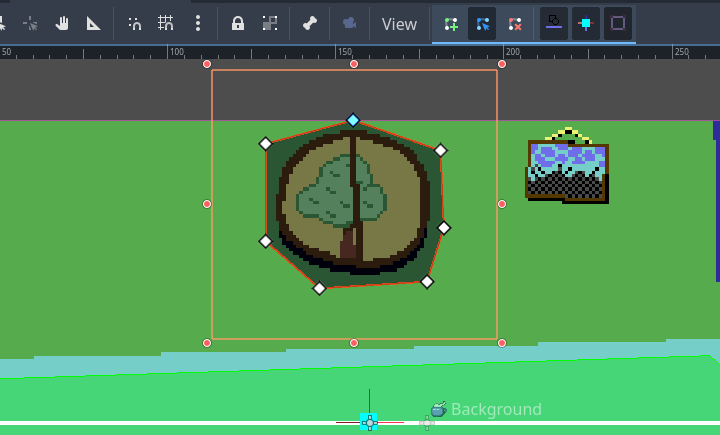
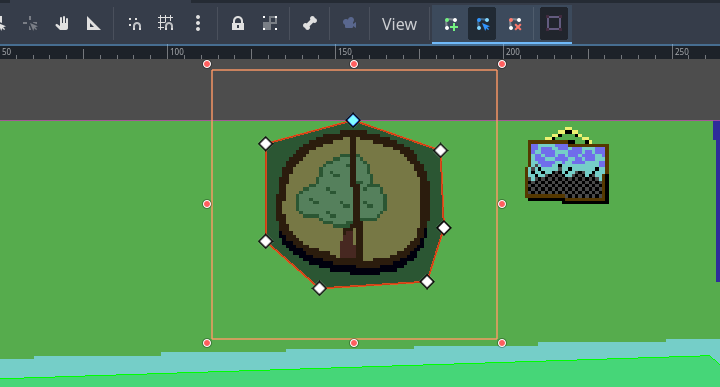
refs #232: updating documentation to reflect the new gizmos

diff --git a/docs/src/getting-started/creating-a-game-stub/create-the-first-room.md b/docs/src/getting-started/creating-a-game-stub/create-the-first-room.md
@@ -127,12 +127,12 @@ In the popup window, just name your new hotspot "_Window_" (or whatever you find
 
 ![A new hotspot in the scene tree](../../assets/images/getting-started/game_stub-room-11-hs_scene_tree.png "Select the right tool in the toolbar to set the hotspot properties")
 
-When you select the new hotspot in the scene tree (_21_), a bunch of gizmos are shown in the scene preview. We are going to interactively edit three important properties of the hotspot (the _interaction polygon_, the _baseline_ and the _walk-to point_) by using the dedicated buttons in the toolbar (_23_).
+When you select the new hotspot in the scene tree (_21_), a bunch of gizmos are shown in the scene preview (_22_). We are going to interactively edit two important properties of the hotspot (the _baseline_ and the _walk-to point_) by moving the gizmos on the screen. In addition, the dedicated button in the toolbar (_23_) will allow us to edit the hotspot's _interaction polygon_.
 
 !!! info
     _Walk-to point_, _Baseline_ and _Interaction Polygon_ properties are all common to clickable objects like Hotspots, Props and Characters.
 
-First of all, click the _Interaction Polygon_ button to show the handles of the standard square polygon for the hotspot. This is basically the same as the walkable area polygon but instead of limiting the character movements, this polygon will just react when the cursor hovers it.  
+First of all, click the _Interaction Polygon_ button to show the handles of the standard square polygon for the hotspot. Basically, that's the same as the walkable area polygon but instead of limiting the character movements, this polygon will just react when the cursor hovers over it.  
 Let's draw a shape around the window on the wall:
 
 ![New hotspot's clickable area](../../assets/images/getting-started/game_stub-room-12-hs_draw_polygon.png "Draw the hotspot shape with a polygon")
@@ -140,7 +140,7 @@ Let's draw a shape around the window on the wall:
 No need to be too precise or polished, rough edges won't be perceivable while playing your game. You just need to avoid, if possible, overlapping with other hotspots (see "_Baseline_" below, to understand how polygon overlapping works).
 
 Another important property of the hotspot is the "_Walk to point", which is the coordinates that the character will reach when you click over the hotspot.  
-You can set these coordinates interactively by clicking on the "_Walk-to point_" button in the toolbar. A squared marker will appear in the center of the screen. You can drag the marker wherever you want in the room.
+You can set these coordinates interactively by clicking and dragging the "_Walk To point_" gizmo wherever you want in the room. You will see that the property with the same name in the inspector will update to reflect the coordinates.
 
 For our example room, we'll set the following coordinates for the `Window` hotspot:
 
@@ -156,10 +156,14 @@ The last property that you want to set is the _Baseline_. The baseline is simply
 
     That's not the case at all. If you don't set your baseline the right way, the polygon-delimited area of the hotspot may remain clickable even when the character is in front of it; or the other way around, a hotspot that should always be in front of the scene, may be covered by your character, making it unreachable. So, **always** set your baseline.
 
-Our window is in the back of the room and the main character has no way to be placed behind it, so we'll set the hotspot baseline to `0` (zero). This means that the baseline is "as high as the scene". The character has no way to walk so high.  
+Our window is in the back of the room and the main character has no way to be placed behind it, so just click the baseline gizmo handler (the square in the middle of the line) and drag it at the very top so that the baseline is "as high as the scene" (or more). The character has no way to walk so high.  
 
 !!! info
-    Note that you can set the baseline even to negative values. This is what Popochiu automatically does when you name your prop `Background` or `bg`, to make sure your background is always at the very back of the scene. Keep this in mind too, if you change the baseline of other elements programmatically (via a script).
+    You can set the baseline even to negative values. This is what Popochiu automatically does when you name your prop `Background` or `bg`, to make sure your background is always at the very back of the scene. Keep this in mind too, if you change the baseline of other elements programmatically (via a script).
+
+!!! info
+    In the example we made, the hotspot is in the center of the screen. You may have noticed that by dragging its baseline upwards, we set its value in the inspector to `-90` or less (half the vertical size of the viewport in this case). That's because the baseline coordinates are always local to the clickable element.  
+    Moving an element from the center position will also move its walk-to point, baseline and interaction polygon.
 
 !!! tip
     If you need pixel-perfect precision, you can set the baseline and the hotspot's _Walk to point_ coordinates by inputting them in the inspector.
